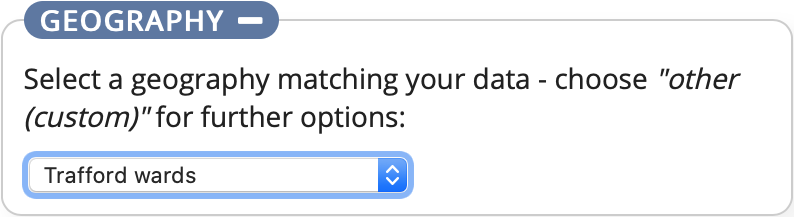
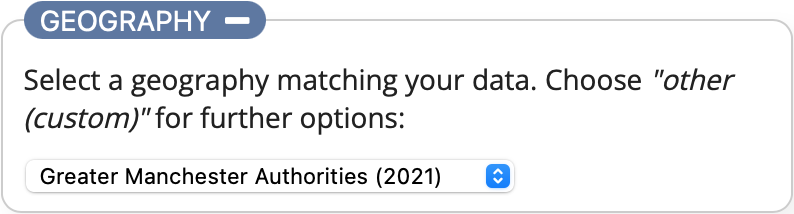
Minor update regarding spatial geography. As Trafford now has new wards for 2023 onwards, I have changed the example files using LA population estimates for GM from the 2021 Census and updated the geography options within the drop-down list. The documentation has been updated accordingly. I have als

diff --git a/documentation.html b/documentation.html
@@ -122,17 +122,16 @@
                             <li><a href="#exportedit">Exporting and further editing</a></li>
                             <li><a href="#credits">Credits</a></li>
                         </ul>
-
-                        <a name="intro"></a><h2>Introduction</h2>
-                        <p>
-                            <a href="index.html">Choroplether</a> is a web application that allows you to create <a href="https://www.axismaps.com/guide/univariate/choropleth/" target="_blank">choropleth maps</a> in <a href="https://vega.github.io/vega-lite/" target="_blank">Vega-Lite</a> without having to write all the code yourself. The resulting output can be saved as an <abbr title="Scalable Vector Graphics">SVG</abbr> or <abbr title="Portable Network Graphics">PNG</abbr> image or opened within the <a href="https://vega.github.io/vega-editor/" target="_blank">Vega Editor</a> for further customisation. You can also embed the map in a webpage using <a href="https://github.com/vega/vega-embed" target="_blank">Vega-embed</a> if you require an interactive visualisation.
-                        </p>
                     </div>
                     <div>
                         <img src="docs_images/example.png" alt="Example screenshot of the application." class="screenshot" style="margin-top: 25px;"/>
                     </div>
                 </div>
 
+                <a name="intro"></a><h2>Introduction</h2>
+                <p>
+                    <a href="index.html">Choroplether</a> is a web application that allows you to create <a href="https://www.axismaps.com/guide/univariate/choropleth/" target="_blank">choropleth maps</a> in <a href="https://vega.github.io/vega-lite/" target="_blank">Vega-Lite</a> without having to write all the code yourself. The resulting output can be saved as an <abbr title="Scalable Vector Graphics">SVG</abbr> or <abbr title="Portable Network Graphics">PNG</abbr> image or opened within the <a href="https://vega.github.io/vega-editor/" target="_blank">Vega Editor</a> for further customisation. You can also embed the map in a webpage using <a href="https://github.com/vega/vega-embed" target="_blank">Vega-embed</a> if you require an interactive visualisation.
+                </p>
                 <p>
                     You supply some suitably formatted data, select or provide a spatial geography that matches the data and then customise the appearance. The interface is split into 3 sections: <a href="#data"><strong>Data</strong></a>, <a href="#geography"><strong>Geography</strong></a> and <a href="#design"><strong>Design</strong></a>, each can be collapsed and expanded as required by activating the toggle button at the top of each section. The app attempts to update the visualisation as you make changes in any of the sections, or when you activate the <strong>UPDATE</strong> button.
                 </p>
@@ -141,7 +140,7 @@
                 <a name="demo"></a><h2>Demonstration</h2>
                 <p>
                     <img src="docs_images/design.png" width="300" alt="Screenshot of the design section expanded." class="screenshot" style="float: left; margin-right: 20px; margin-bottom: 10px; padding: 10px;"/>
-                    The app loads with an example dataset already visualised: mid-2017 population estimates from the <a href="https://www.ons.gov.uk/" target="_blank">Office for National Statistics</a> for the electoral wards of Trafford.
+                    The app loads with an example dataset already visualised: Census 2021 population estimates from the <a href="https://www.ons.gov.uk/" target="_blank">Office for National Statistics</a> for the local authorities in Greater Manchester.
                 </p>
                 <p>
                     Expand the <strong>Design</strong> section using the toggle button and add a title by entering some text in the <strong>Map title:</strong> text box. Activate the <strong>UPDATE</strong> button and your title will be added to the map.
@@ -185,9 +184,8 @@
                     The geography must be valid <abbr title="Geospatial data in JavaScript Object Notation"><a href="https://geojson.org" target="_blank">GeoJSON</a></abbr>, an open-source spatial format, and each &quot;<strong>Feature</strong>&quot; must contain the key &quot;<strong>area_code</strong>&quot; to identify it. This key is used to match the features in the spatial geography to the data. The only exception to this is if you are using a custom geography which doesn't have area codes defined for it, such as Trafford Localities. In this case both the data and the geography must contain the field &quot;<strong>area_name</strong>&quot;.  The &quot;<strong>area_name</strong>&quot; key is also used as a label within the tooltip displaying the data value associated to an area when you select it on the map.
                 </p>
                 <p>
-                    The following example from a spatial file describing Trafford's Electoral Wards demonstrates the use of the <strong>area_code</strong> key:
+                    The following example from a spatial file describing the local authority boundaries within Greater Manchester demonstrates the use of the <strong>area_code</strong> key:
                 </p>
-                <!--br class="noFloat"/-->
                 <code class="code noFloat" aria-label="Example code of a GeoJSON geography file">
                     <pre>
     {
@@ -197,15 +195,15 @@
             {
                 "type": "Feature",
                 "properties": {
-                    "area_code": "E05000819",
-                    "area_name": "Altrincham"
+                    "area_code": "E08000009",
+                    "area_name": "Trafford"
                 },
                 "geometry": {
                     "type": "MultiPolygon",
                     "coordinates": [...
                     </pre>
                 </code>
-                <p>The ward of Altrincham has an <strong>area_code</strong> of E05000819. In the example data files this <strong>area_code</strong> has the value <strong>12803</strong>. This value is assigned to a colour based on the range of values within the dataset and the type of <strong>scale</strong> you want to use, (this is explained in the Design section). The result is the shape of Altrincham ward will be displayed, filled with the assigned colour.</p>
+                <p>Trafford has an <strong>area_code</strong> of E08000009. In the example data files this <strong>area_code</strong> has the value <strong>235052</strong> (representing the Census 2021 population estimate). This value is assigned to a colour based on the range of values within the dataset and the type of <strong>scale</strong> you want to use, (this is explained in the Design section). The result is the shape of Trafford will be displayed, filled with the assigned colour.</p>
                 <br class="noFloat"/>
 
                 <a name="design"></a><h2>Design</h2>

diff --git a/index.html b/index.html
@@ -176,7 +176,7 @@
             </header>
 
             <main id="main">
-                <p>Choroplether allows the quick creation of <a href="https://www.axismaps.com/guide/univariate/choropleth/" target="_blank">choropleth maps</a> in <a href="https://vega.github.io/vega-lite/" target="_blank">Vega-Lite</a> using your own data. A demonstration showing the <abbr title="Office for National Statistics"><a href="https://www.ons.gov.uk/" target="_blank" aria-label="ONS - Office for National Statistics">ONS</a></abbr> 2017 mid-year population estimates for Trafford's wards has been automatically generated. <a href="documentation.html" target="_blank">The documentation</a> provides further details on using the app, however please note that Choroplether requires a modern browser - it will not work in Internet Explorer.</p>
+                <p>Choroplether allows the quick creation of <a href="https://www.axismaps.com/guide/univariate/choropleth/" target="_blank">choropleth maps</a> in <a href="https://vega.github.io/vega-lite/" target="_blank">Vega-Lite</a> using your own data. A demonstration showing the <abbr title="Office for National Statistics"><a href="https://www.ons.gov.uk/" target="_blank" aria-label="ONS - Office for National Statistics">ONS</a></abbr> Census 2021 population estimates for local authorities in Greater Manchester has been automatically generated. <a href="documentation.html" target="_blank">The documentation</a> provides further details on using the app, however please note that Choroplether requires a modern browser - it will not work in Internet Explorer.</p>
 
                 <div id="layoutContainer">
                     <div id="toolsPanel">
@@ -200,9 +200,12 @@
                                 <label for="geographyList">Select a geography</label> matching your data. Choose <span style="font-style: italic;">&quot;other (custom)&quot;</span> for further options:
                                 <br />
                                 <select id="geographyList" onchange="checkGeographyChoice(this.value)">
+                                    <optgroup label="Local Authority">
+                                        <option value="https://www.trafforddatalab.io/spatial_data/local_authority/2021/gm_local_authority_generalised.geojson" selected="selected">Greater Manchester Authorities (2021)</option>
+                                    </optgroup>
                                     <optgroup label="Electoral Ward">
-                                        <option value="https://www.trafforddatalab.io/spatial_data/ward/2017/trafford_ward_generalised.geojson" selected="selected">Trafford wards</option>
-                                        <option value="https://www.trafforddatalab.io/spatial_data/ward/2017/gm_ward_generalised.geojson">Greater Manchester wards</option>
+                                        <option value="https://www.trafforddatalab.io/spatial_data/ward/2023/trafford_ward_full_resolution.geojson">Trafford wards (2023)</option>
+                                        <option value="https://www.trafforddatalab.io/spatial_data/ward/2022/gm_ward_generalised.geojson">Greater Manchester wards (2022)</option>
                                     </optgroup>
                                     <optgroup label="Lower layer Super Output Area (LSOA)">
                                         <option value="https://www.trafforddatalab.io/spatial_data/lsoa/2021/trafford_lsoa_generalised.geojson">Trafford LSOAs (2021)</option>
@@ -217,7 +220,7 @@
                                         <option value="https://www.trafforddatalab.io/spatial_data/msoa/2011/gm_msoa_generalised.geojson">Greater Manchester MSOAs (2011)</option>
                                     </optgroup>
                                     <optgroup label="Miscellaneous">
-                                        <option value="https://www.trafforddatalab.io/spatial_data/council_defined/trafford_localities.geojson">Trafford localities</option>
+                                        <option value="https://www.trafforddatalab.io/spatial_data/council_defined/2023/trafford_localities_full_resolution.geojson">Trafford localities (2023)</option>
                                     </optgroup>
                                     <option value="other">Other (custom)</option>
                                 </select>
